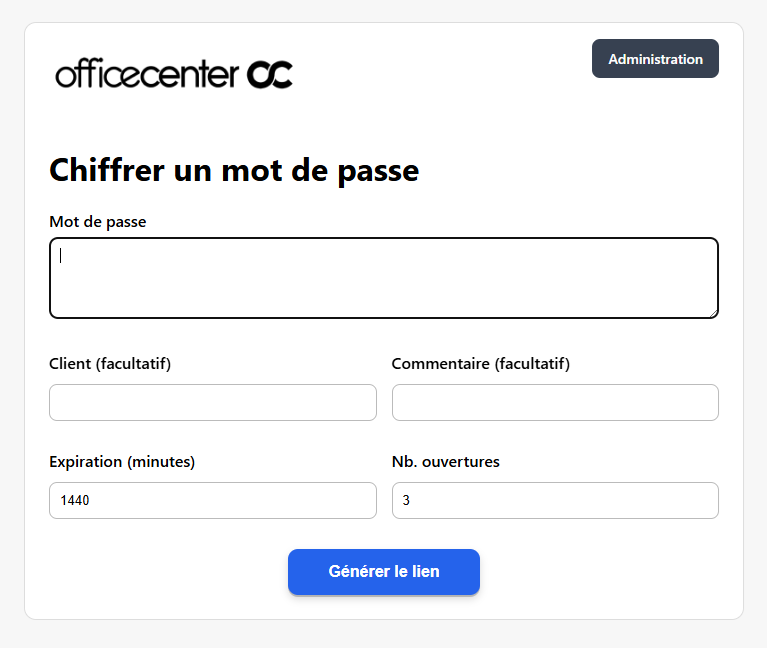
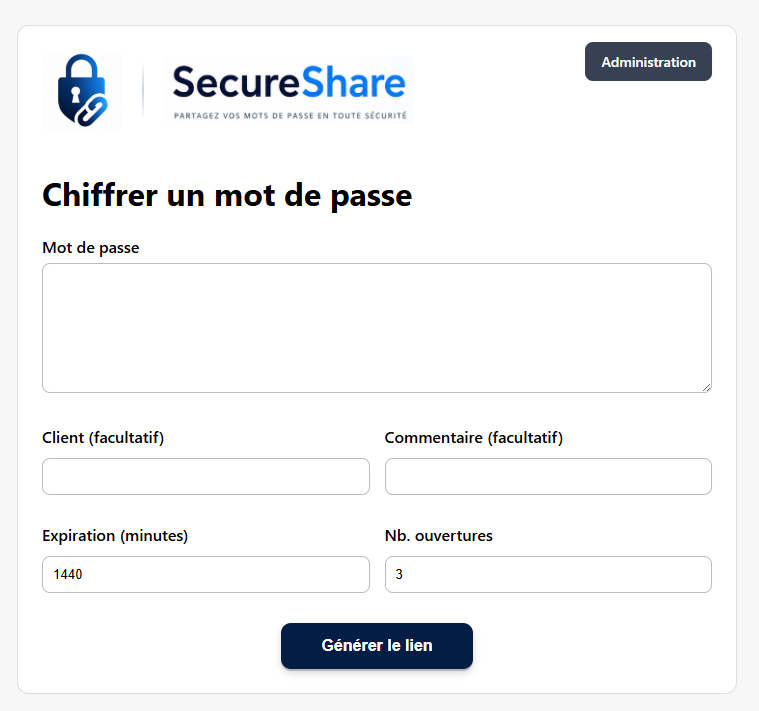
Add security

diff --git a/app/db.php b/app/db.php
@@ -12,11 +12,10 @@ $dsn = sprintf(
     $config['db_name']
 );
 
-//        $dsn = "mysql:host={$this->host};dbname={$this->db};charset={$this->charset}";
-
-
 $pdo = new PDO($dsn, $config['db_user'], $config['db_pass'], [
     PDO::ATTR_ERRMODE => PDO::ERRMODE_EXCEPTION,
     PDO::ATTR_DEFAULT_FETCH_MODE => PDO::FETCH_ASSOC,
 ]);
 
+// Purge les enregistrements expirés depuis plus de 24 heures
+$pdo->exec("DELETE FROM secret_links WHERE expires_at < DATE_SUB(NOW(), INTERVAL 1 DAY)");

diff --git a/index.php b/index.php
@@ -1,0 +1,11 @@
+<?php
+
+$lockFile = dirname(__DIR__) . '/app/installed.lock';
+
+if (!file_exists($lockFile)) {
+    header('Location: setup.php');
+    exit;
+}
+
+header('Location: create.php');
+exit;

diff --git a/README.md b/README.md
@@ -36,18 +36,20 @@ Secrets are encrypted before storage and remain inaccessible without the server 
 ![Generate token](/img/generate.png "Generate Page") 
 ![Share token](/img/share.png "Share Page") 
 
+## Setup
+
+1/ Upload project into your webserver
+2/ Prepare your MySQL/MariaDB credentials (create a user / don't use DB root)
+3/ Browse your website, it will redirect to the setup wizzard (setup.php)
+
+Warning :
+If your hosting provider does not allow changing the document root,
+the app/ directory must be protected with the provided .htaccess file.
 
 ## Planned Features
 Implement multilingual support (French and English).  
 Add a language switcher in the user interface.  
 User authentication for create.php and admin.php.  
-Automatic removal of expired tokens.  
-Add .htaccess security rules to protect application files and sensitive resources.  
-Hide the secret by default on the retrieval page.  
-Add a "Show Secret" button to temporarily reveal the secret.  
-Add a "Copy Secret" button to easily copy the secret to the clipboard.  
-Implement automatic cleanup of expired and consumed secrets from the database.  
-Display the SecureShare logo alongside the customer logo for improved branding and user trust.  
 
 ## Requirements
 PHP 8.1+  
